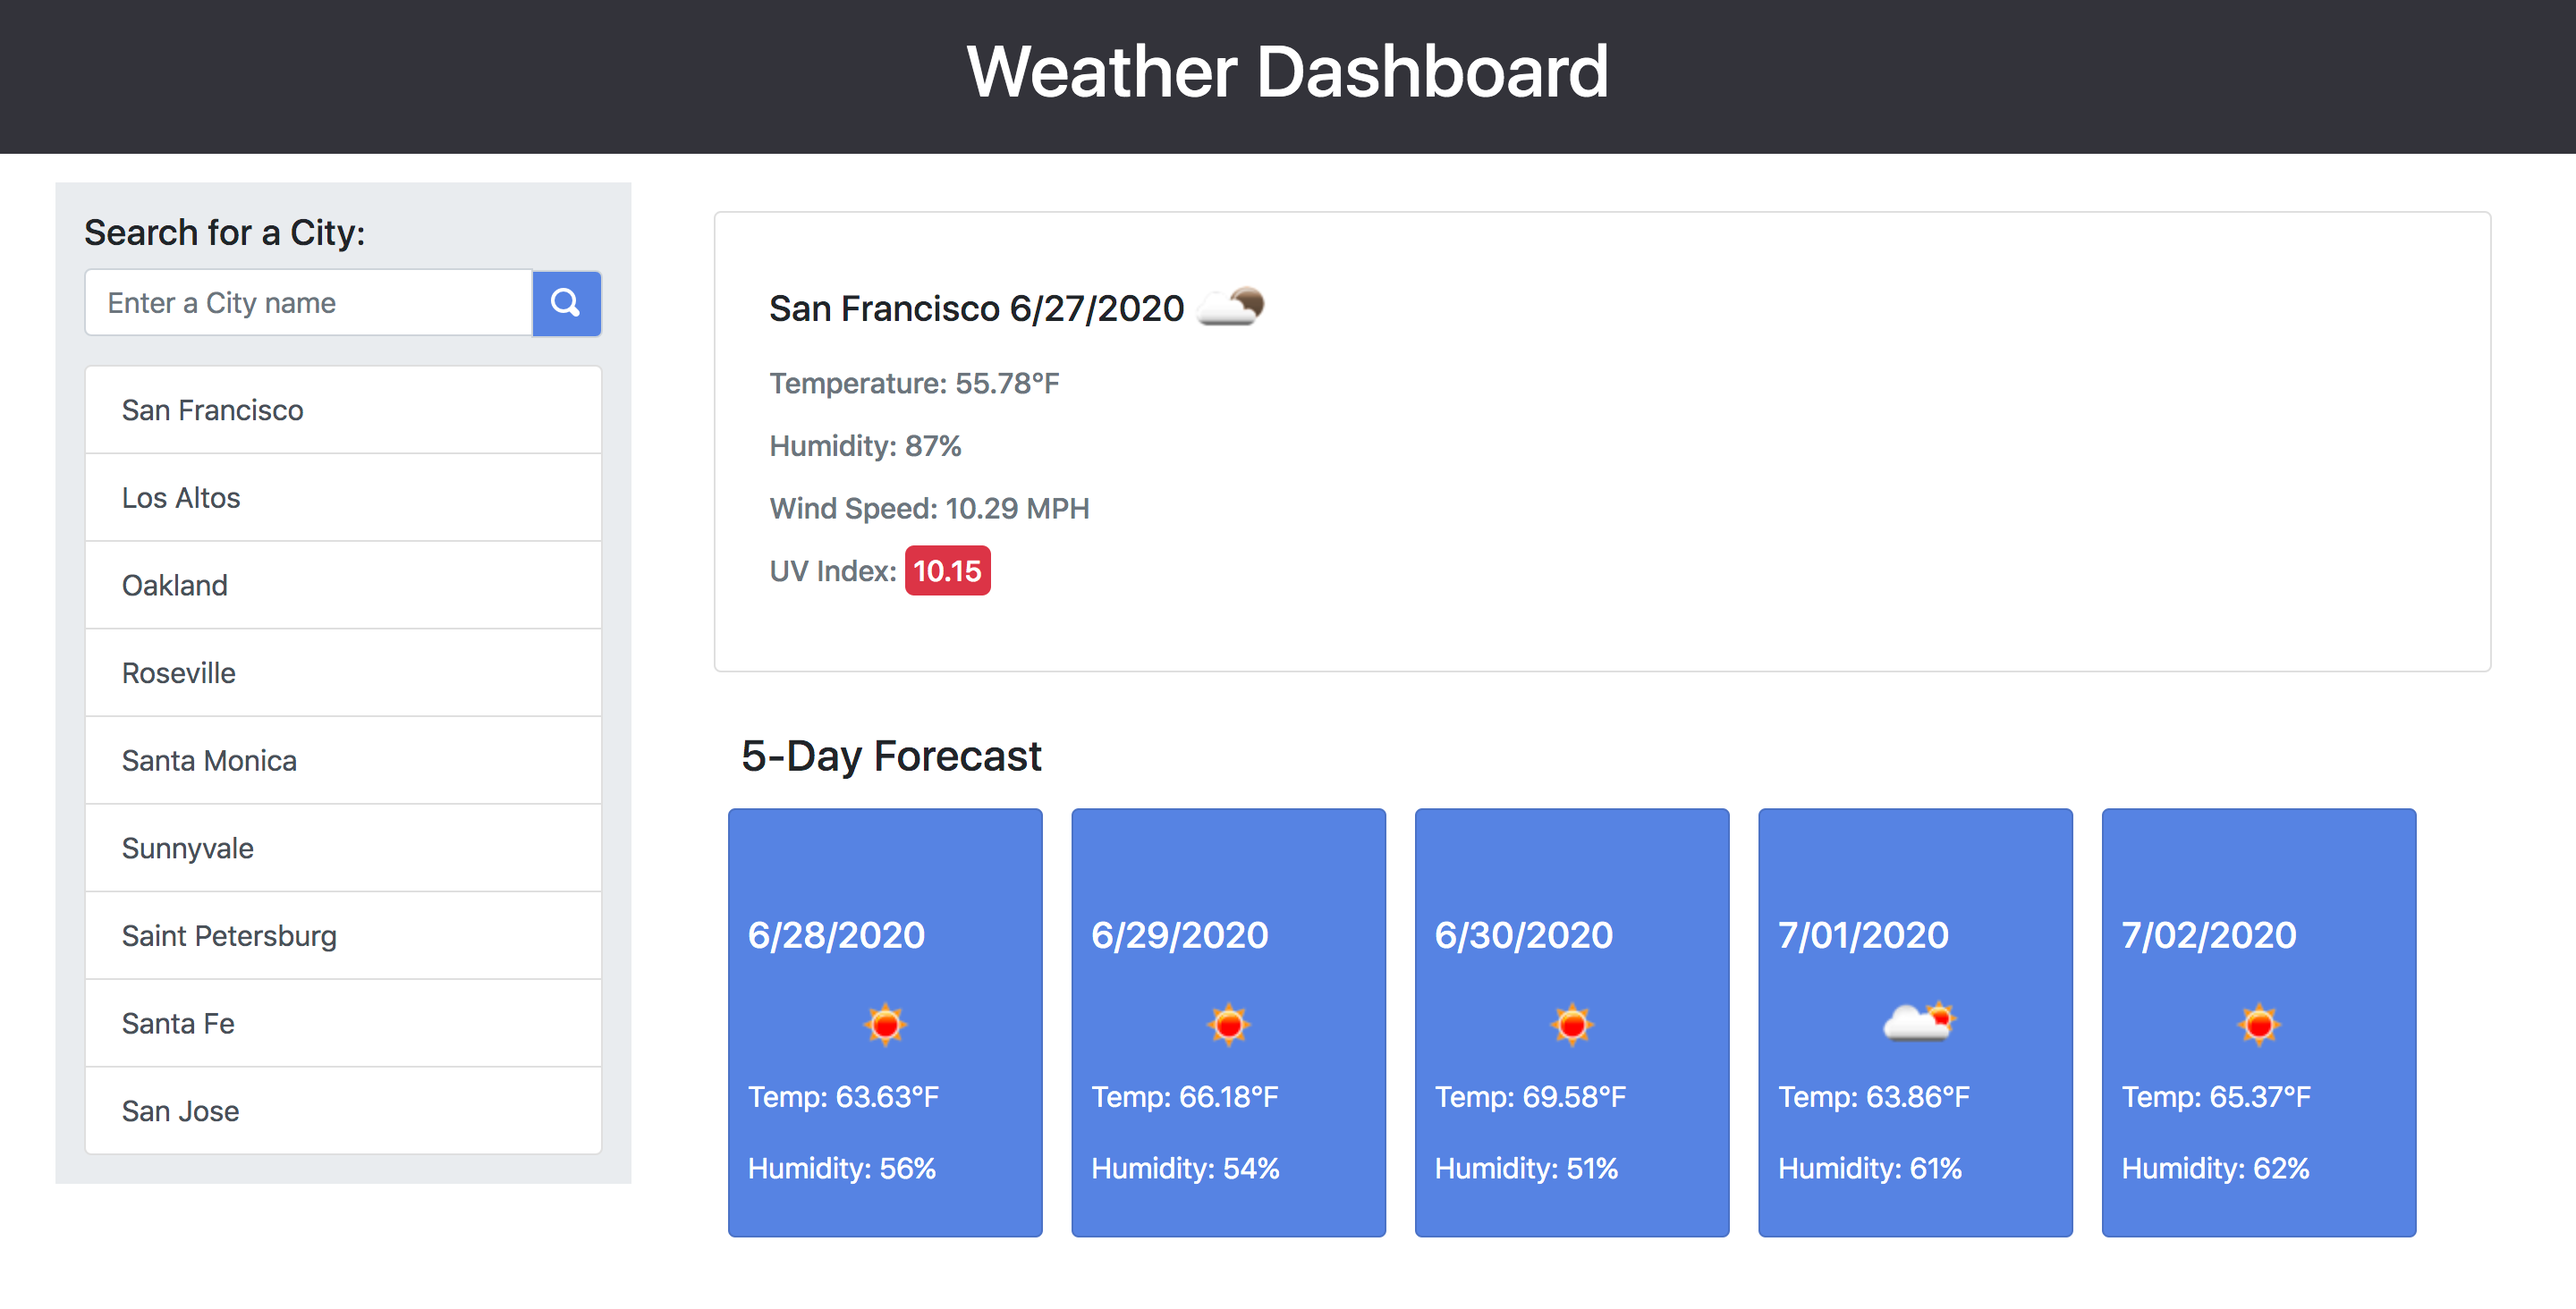
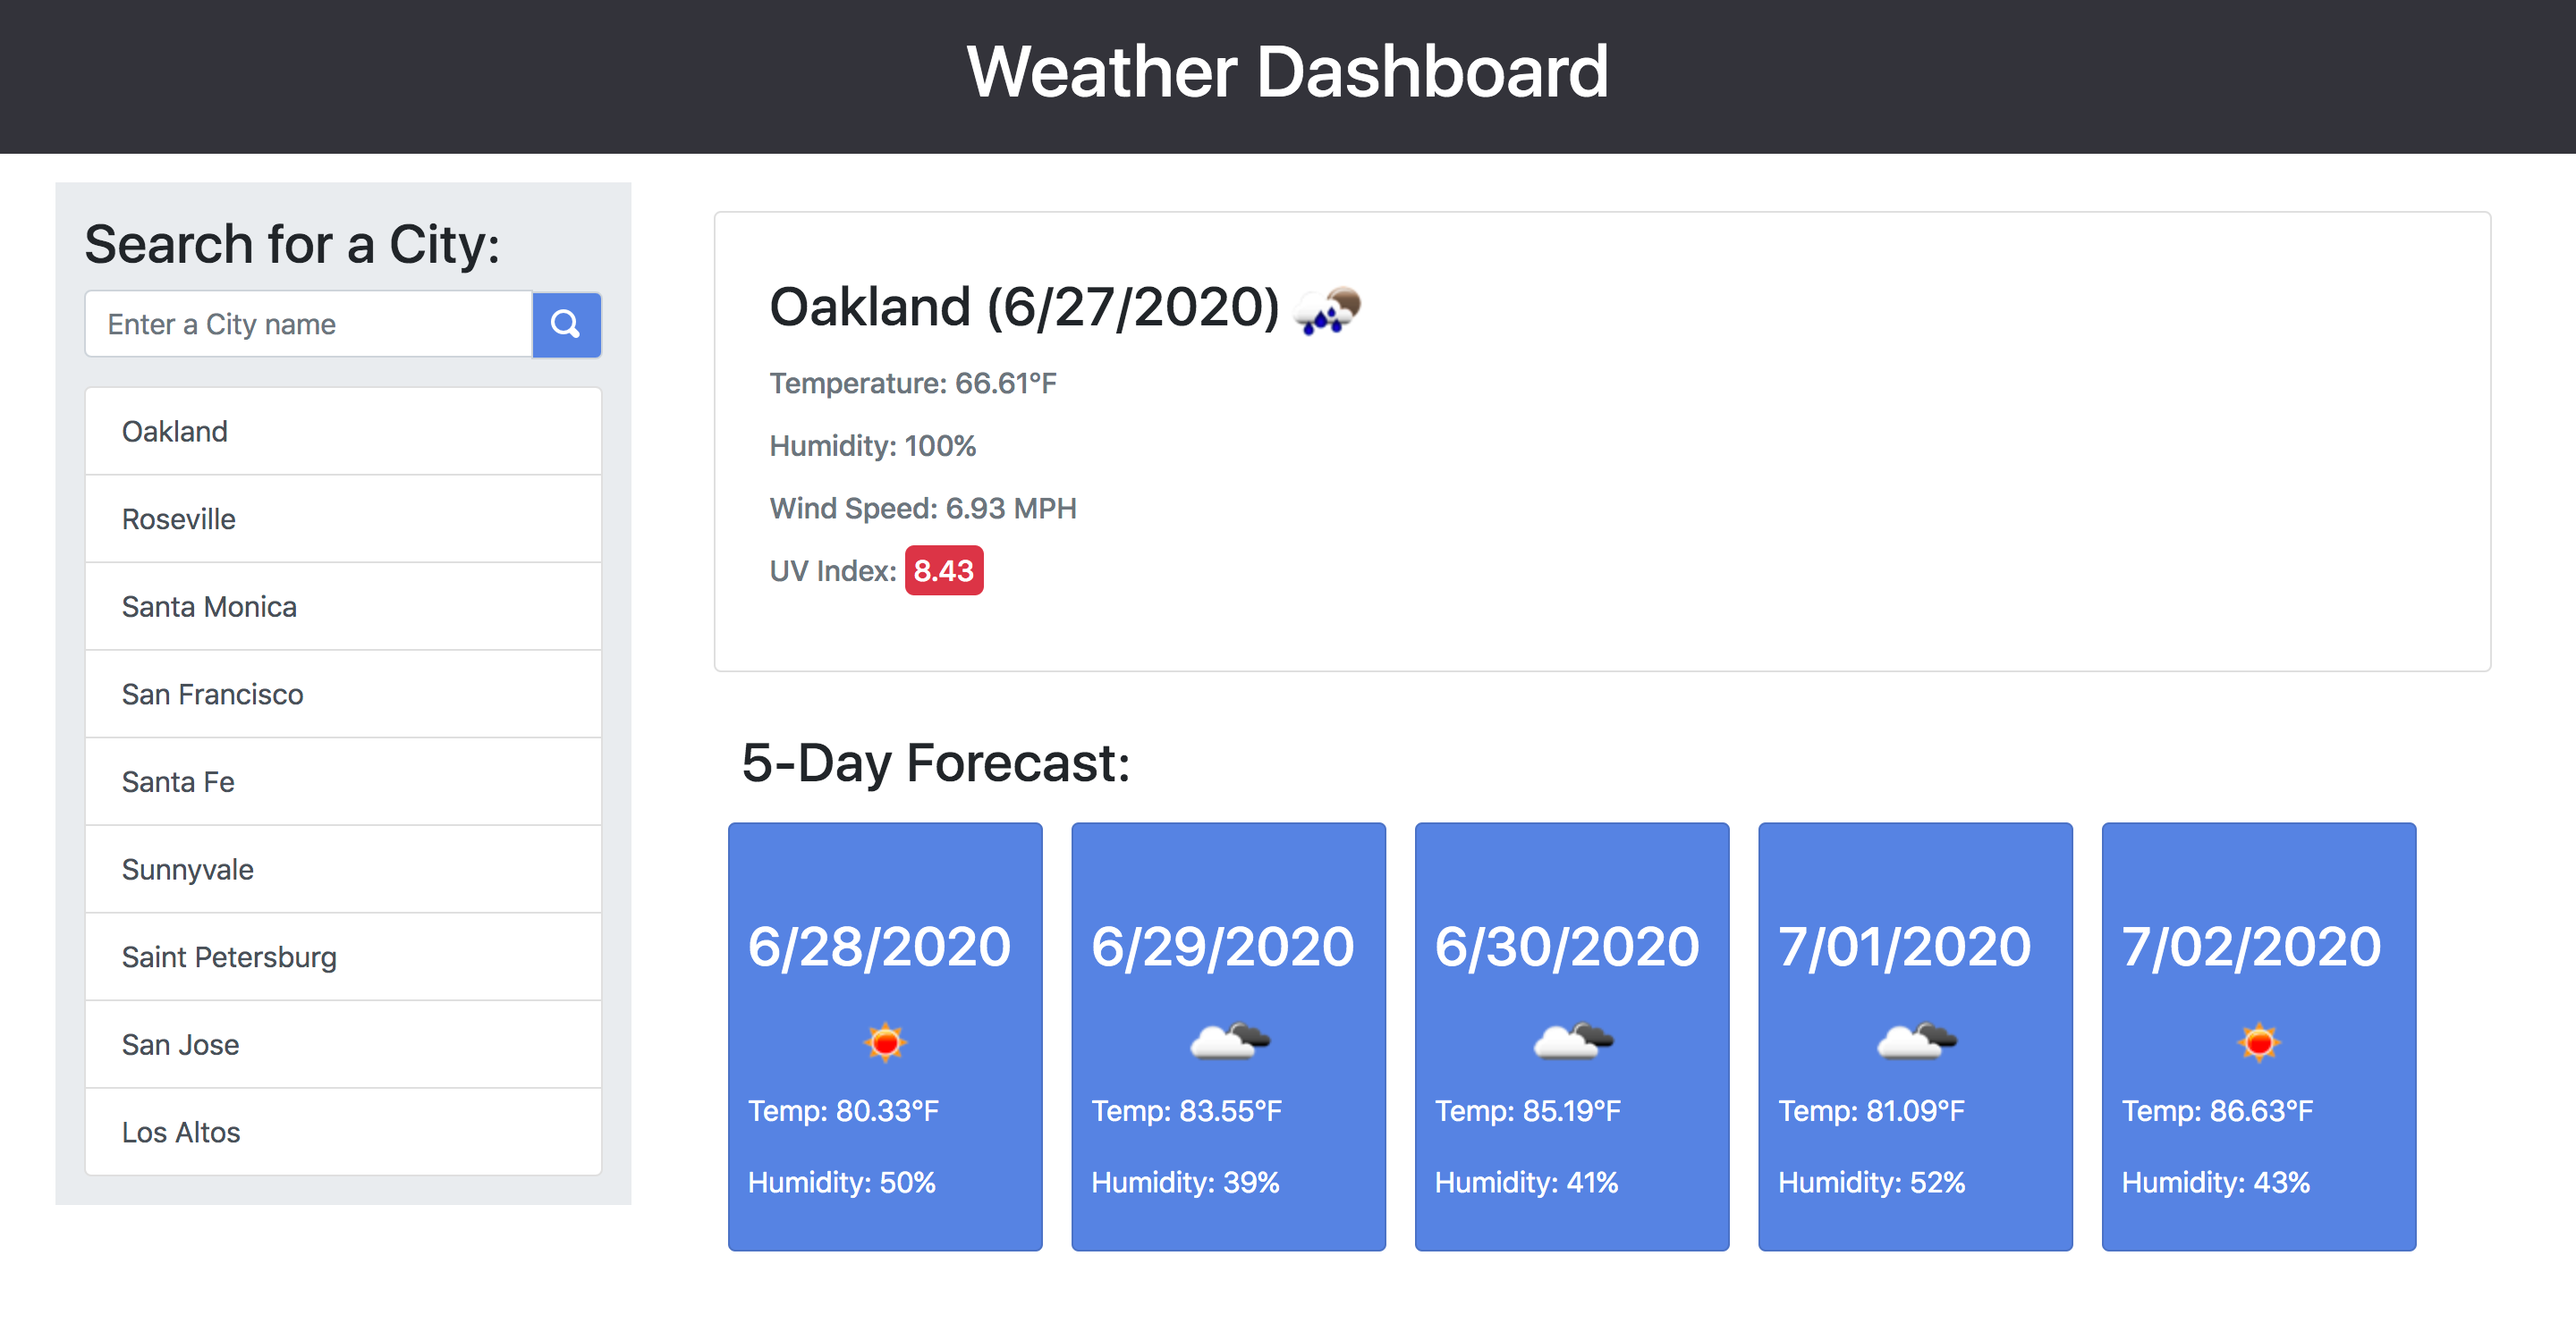
changes font sizes

diff --git a/assets/js/script.js b/assets/js/script.js
@@ -106,7 +106,7 @@ function currentWeather(data) {
     var img = $('<img>');
     img[0].src = `http://openweathermap.org/img/w/${data.weather[0].icon}.png`;
     var icon = $('<span>').append(img);
-    cityTitle.text(`${data.name} ${moment().format('M/DD/YYYY')}`);
+    cityTitle.text(`${data.name} (${moment().format('M/DD/YYYY')})`);
     cityTitle.append(icon);
 
     // do a check if the current title is the same as the searched city then do nothing
@@ -132,7 +132,7 @@ function forecast(data) {
     forecastDiv[0].innerHTML = "";
     var forecastTitle = $('<h4>')
         .addClass("col-12")
-        .text("5-Day Forecast");
+        .text("5-Day Forecast:");
     forecastDiv.append(forecastTitle);
     // create forecast divs
     for(var i = 1; i < 6; i++) {

diff --git a/index.html b/index.html
@@ -44,7 +44,7 @@
                 <div id="current-weather">
                     <div class="card-body">
                         <!-- Placeholder -->
-                        <h5 class="card-title" id="current-city"></h5>
+                        <h4 class="card-title" id="current-city"></h4>
                         <h6 class="card-subtitle mb-2 text-muted"></h6>
                     </div>
                 </div>

diff --git a/assets/css/style.css b/assets/css/style.css
@@ -9,6 +9,10 @@ header {
     text-align: center;
 }
 
+h4 {
+    font-size: 30px;
+}
+
 img {
     align-items: center;
 }
